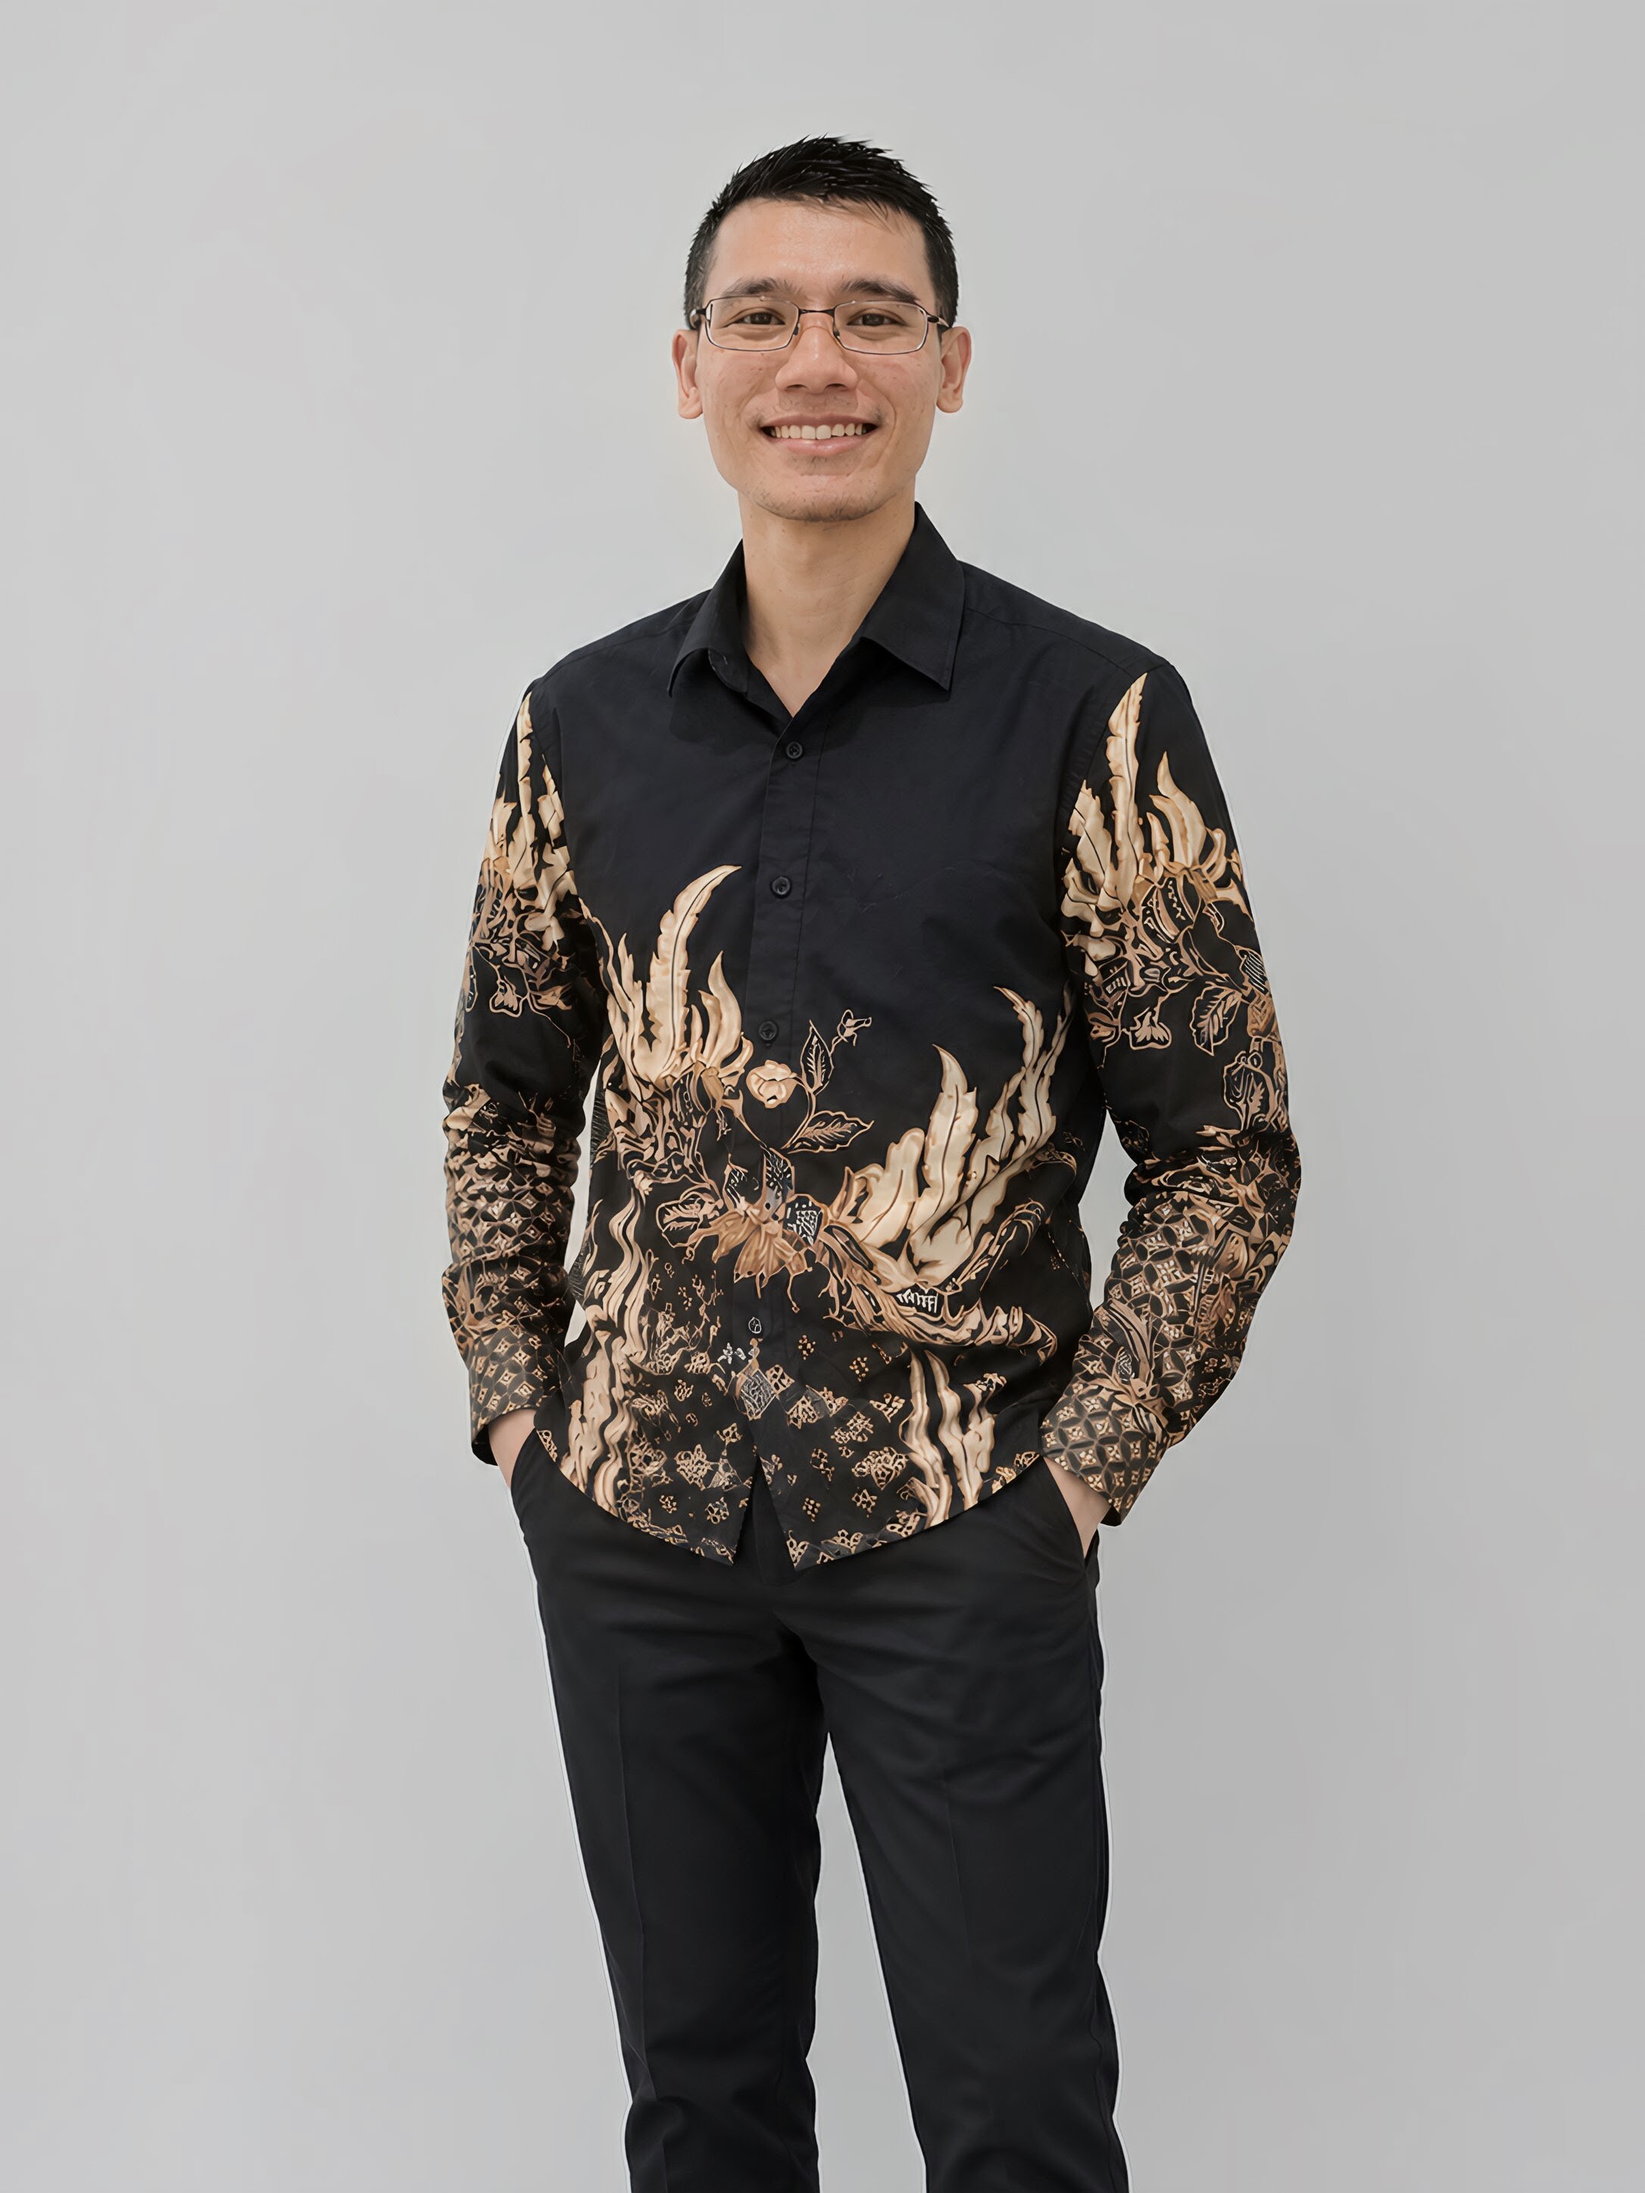
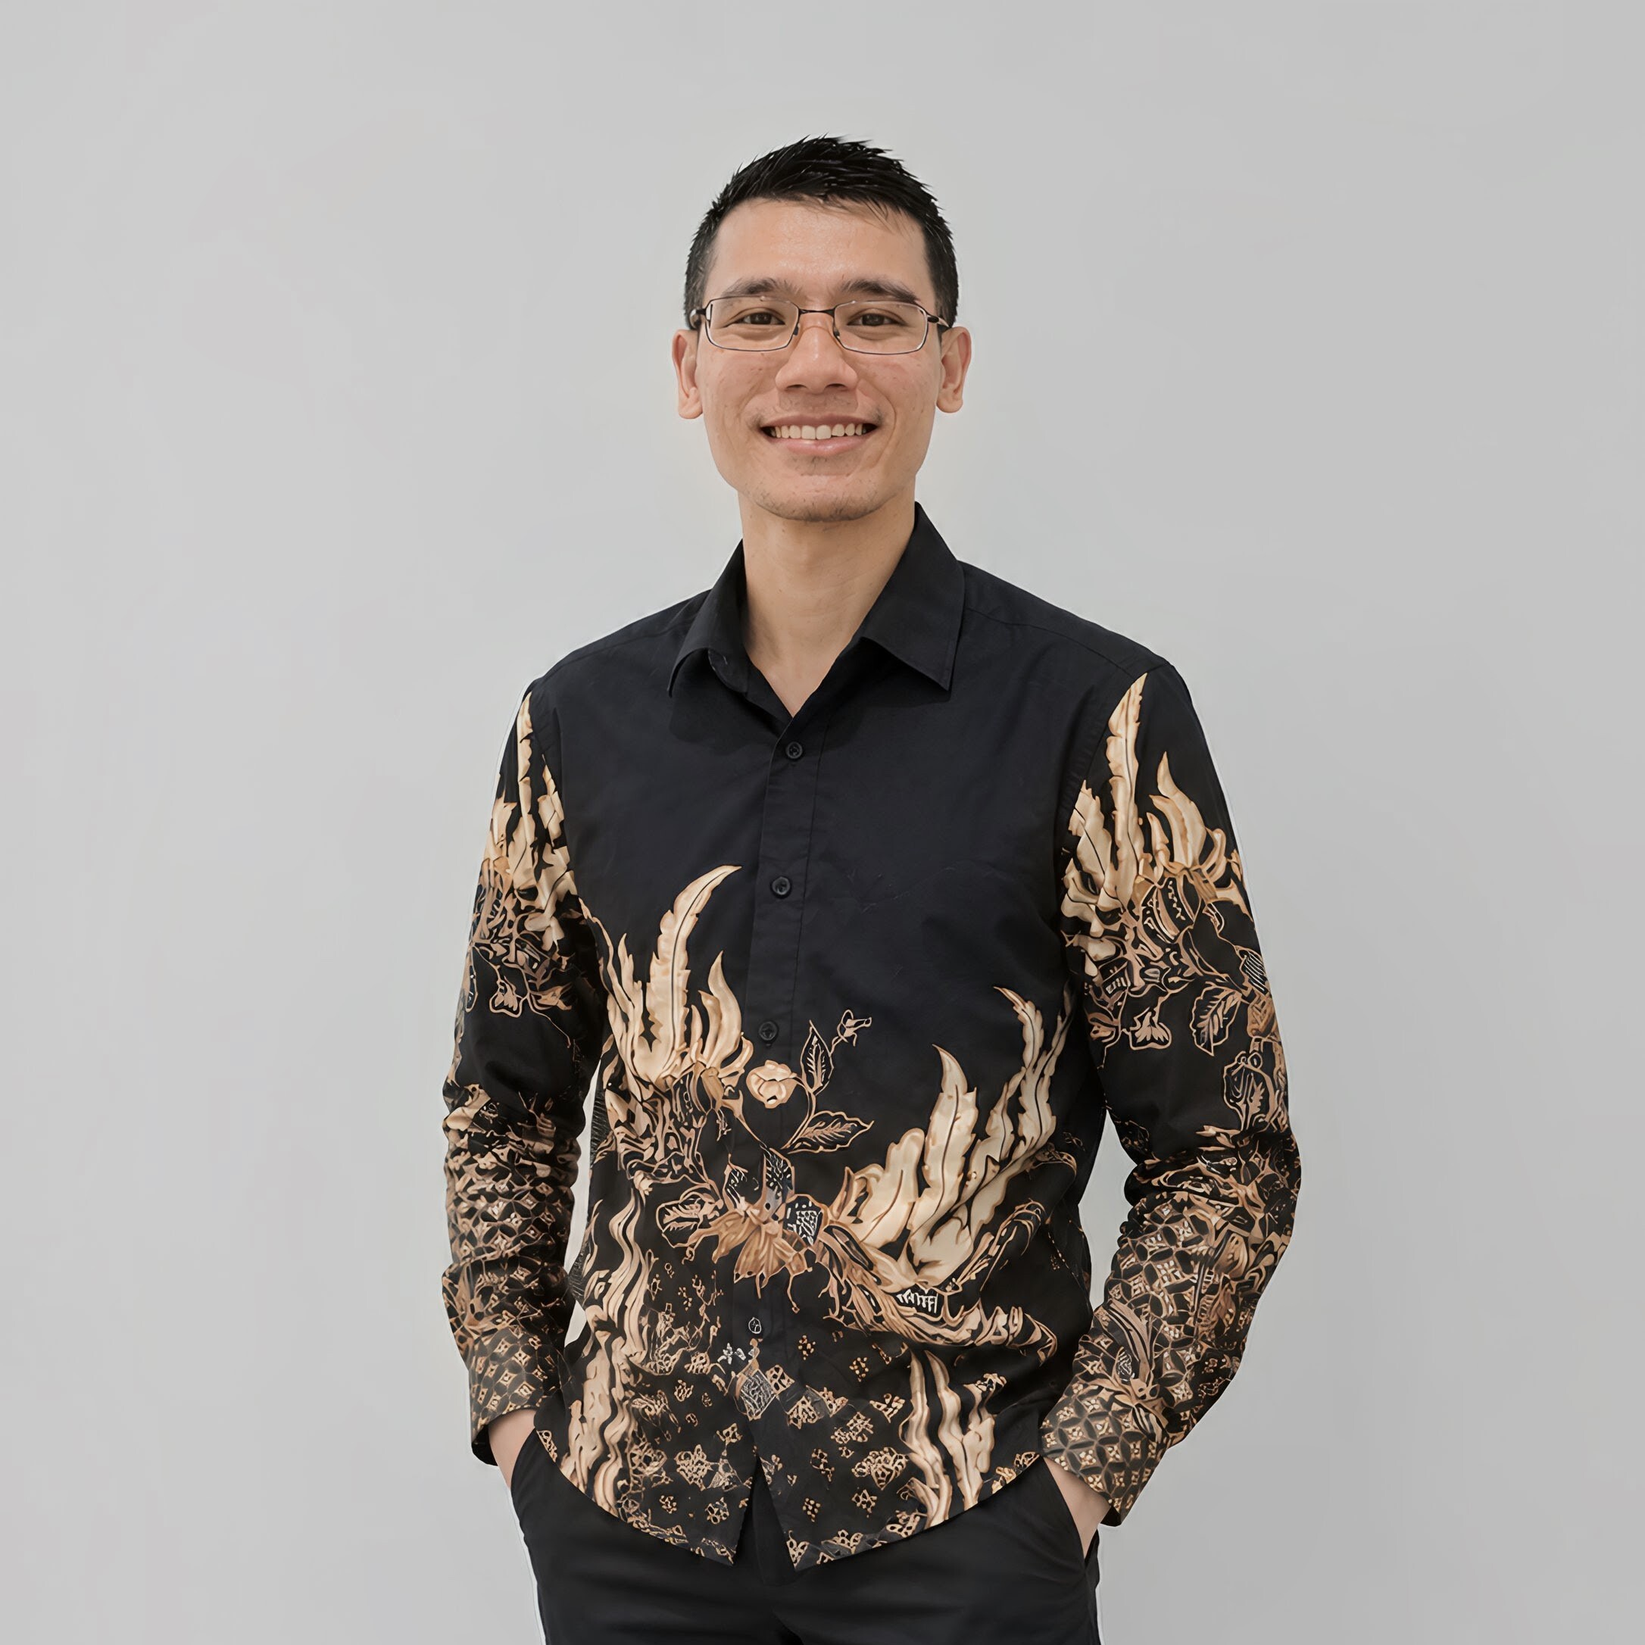
Up1

Changed region(s): [[0.2468, 0.0617, 0.802, 1.0]]

diff --git a/style.css b/style.css
@@ -323,11 +323,13 @@ body { display: flex; flex-direction: column; }
 /* Hero */
 .hero {
   display: grid;
-  grid-template-columns: 1fr auto;
-  gap: 48px;
+  grid-template-columns: 1fr 400px; /* Teks di kiri, Foto 400px di kanan */
+  gap: 64px;
   align-items: center;
-  margin-bottom: 48px;
+  min-height: 55vh; /* Memaksa area hero memanjang ke bawah */
+  margin-bottom: 40px;
 }
+
 .display {
   font-family: var(--font-display);
   font-size: 48px;
@@ -381,8 +383,8 @@ body { display: flex; flex-direction: column; }
 }
 
 .hero-avatar {
-  width: 160px;
-  height: 160px;
+  width: 400px;
+  height: 400px;
   border-radius: 50%;
   background: var(--avatar-bg);
   border: 2px solid var(--accent-navy);
@@ -390,45 +392,37 @@ body { display: flex; flex-direction: column; }
   align-items: center;
   justify-content: center;
   font-family: var(--font-display);
-  font-size: 56px;
+  font-size: 100px;
   font-weight: 700;
   color: var(--accent-blue);
   box-shadow: var(--avatar-glow);
+  justify-self: end; /* Foto nempel ke kanan */
 }
 
 /* Stats */
+/* --- KOTAK STATISTIK LEBIH BESAR --- */
 .stats {
   display: grid;
   grid-template-columns: repeat(4, 1fr);
-  gap: 16px;
-  margin-top: 32px;
+  gap: 24px;
+  margin-top: auto; /* Mendorong statistik ke bawah */
 }
 .stat {
-  padding: 20px;
+  padding: 32px 24px; /* Padding diperbesar */
   background: var(--bg-surface);
   border: 1px solid var(--border-subtle);
   border-radius: var(--radius);
   display: flex;
   flex-direction: column;
-  gap: 4px;
+  gap: 8px;
   box-shadow: var(--shadow-card);
   transition: background 250ms, border-color 250ms;
 }
 .stat-num {
   font-family: var(--font-mono);
-  font-size: 28px;
+  font-size: 36px; /* Angka diperbesar */
   font-weight: 600;
   color: var(--text-primary);
-}
-.stat-num.accent-yellow {
-  color: var(--accent-yellow);
-  text-shadow: 0 0 18px var(--accent-yellow-glow);
-}
-.stat-label {
-  font-size: 12px;
-  text-transform: uppercase;
-  letter-spacing: 0.05em;
-  color: var(--text-muted);
 }
 
 /* Cards */
@@ -671,6 +665,20 @@ body { display: flex; flex-direction: column; }
   .hero-avatar { width: 100px; height: 100px; font-size: 36px; }
   .stats { grid-template-columns: repeat(2, 1fr); }
   .bio-row { grid-template-columns: 1fr; }
+    /* Penyesuaian Hero untuk Mobile */
+  .hero {
+    grid-template-columns: 1fr;
+    text-align: center;
+    min-height: auto;
+    gap: 32px;
+  }
+  .hero-avatar {
+    width: 250px;
+    height: 250px;
+    margin: 0 auto; /* Tengah di HP */
+    justify-self: center;
+    order: -1; /* Foto muncul di atas teks saat di HP */
+  }
 }
 
 /* ============ SWIPE GALLERY ============ */
@@ -788,10 +796,10 @@ body { display: flex; flex-direction: column; }
 }
 
 /* ============ FOTO PROFIL ============ */
-.hero-avatar img,
-.avatar-lg img {
+/* Memastikan gambar di dalamnya menyesuaikan ukuran */
+.hero-avatar img {
   width: 100%;
   height: 100%;
-  object-fit: cover; /* Memastikan foto tidak gepeng dan pas di tengah */
-  border-radius: 50%; /* Membuat foto menjadi bulat */
+  object-fit: cover;
+  border-radius: 50%;
 }
